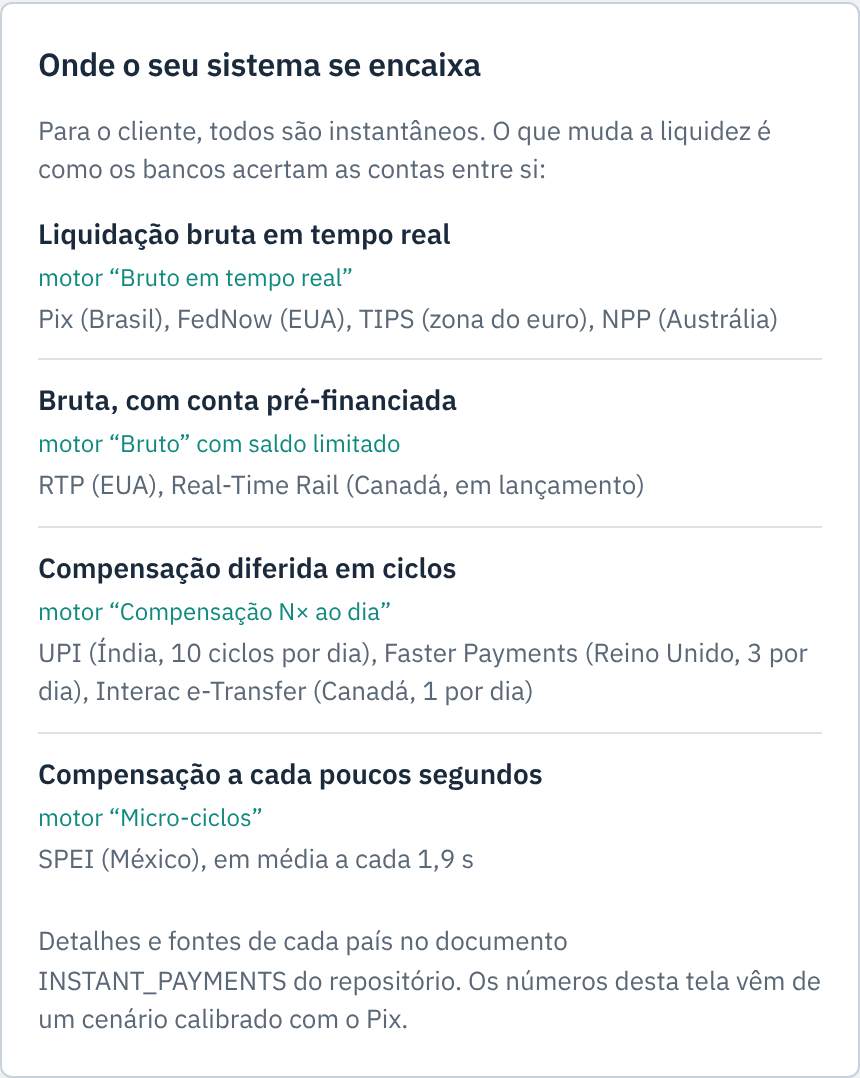
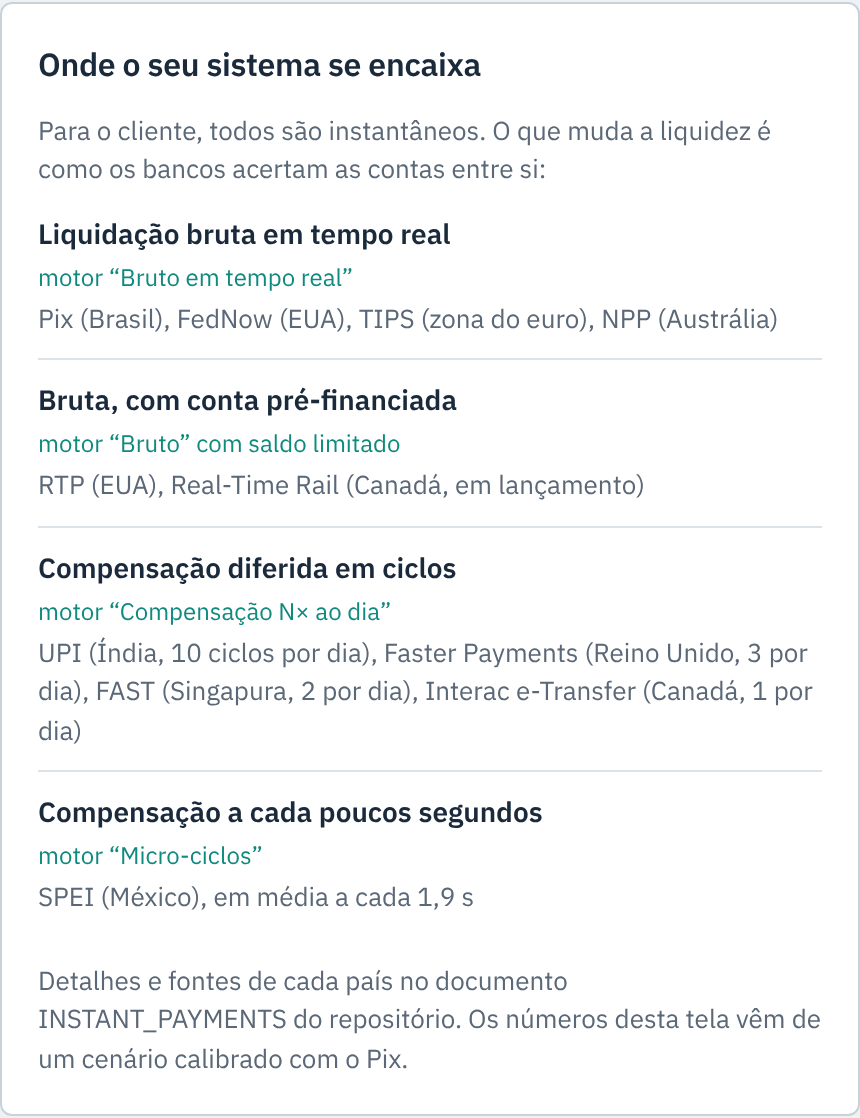
docs: confirm Singapore FAST (deferred net settlement, 2 cycles a day in MEPS+) against MAS sources; no row left to check
Claude-Session: https://claude.ai/code/session_01DUGyeUeHFLL1zbYYdBK5a7

diff --git a/web/src/i18n.ts b/web/src/i18n.ts
@@ -94,7 +94,7 @@ const pt = {
   fitRows: [
     { model: "Liquidação bruta em tempo real", engine: "motor “Bruto em tempo real”", systems: "Pix (Brasil), FedNow (EUA), TIPS (zona do euro), NPP (Austrália)" },
     { model: "Bruta, com conta pré-financiada", engine: "motor “Bruto” com saldo limitado", systems: "RTP (EUA), Real-Time Rail (Canadá, em lançamento)" },
-    { model: "Compensação diferida em ciclos", engine: "motor “Compensação N× ao dia”", systems: "UPI (Índia, 10 ciclos por dia), Faster Payments (Reino Unido, 3 por dia), Interac e-Transfer (Canadá, 1 por dia)" },
+    { model: "Compensação diferida em ciclos", engine: "motor “Compensação N× ao dia”", systems: "UPI (Índia, 10 ciclos por dia), Faster Payments (Reino Unido, 3 por dia), FAST (Singapura, 2 por dia), Interac e-Transfer (Canadá, 1 por dia)" },
     { model: "Compensação a cada poucos segundos", engine: "motor “Micro-ciclos”", systems: "SPEI (México), em média a cada 1,9 s" },
   ],
   fitCaption: "Detalhes e fontes de cada país no documento INSTANT_PAYMENTS do repositório. Os números desta tela vêm de um cenário calibrado com o Pix.",
@@ -167,7 +167,7 @@ const en: Strings = {
   fitRows: [
     { model: "Real-time gross settlement", engine: "“Real-time gross” engine", systems: "Pix (Brazil), FedNow (US), TIPS (euro area), NPP (Australia)" },
     { model: "Gross, against a prefunded account", engine: "“Gross” engine with limited balance", systems: "RTP (US), Real-Time Rail (Canada, launching)" },
-    { model: "Deferred netting in cycles", engine: "“Netting N× a day” engine", systems: "UPI (India, 10 cycles a day), Faster Payments (UK, 3 a day), Interac e-Transfer (Canada, 1 a day)" },
+    { model: "Deferred netting in cycles", engine: "“Netting N× a day” engine", systems: "UPI (India, 10 cycles a day), Faster Payments (UK, 3 a day), FAST (Singapore, 2 a day), Interac e-Transfer (Canada, 1 a day)" },
     { model: "Netting every few seconds", engine: "“Micro-cycles” engine", systems: "SPEI (Mexico), every 1.9 s on average" },
   ],
   fitCaption: "Details and sources for each country in the repository's INSTANT_PAYMENTS document. The numbers on this screen come from a scenario calibrated to Pix.",

diff --git a/docs/INSTANT_PAYMENTS.md b/docs/INSTANT_PAYMENTS.md
@@ -8,8 +8,9 @@
 > payments. This page shows which settlement model each system uses and which LoopSettle engine
 > represents it.
 >
-> Last checked: 5 Nov 2026, by public web search; SPEI and Canada checked against primary sources (Banxico, Interac, Bank of Canada). Rows marked **to check** rely on secondary
-> sources and must be confirmed against the operator's rulebook before being cited.
+> Last checked: 5 Nov 2026, by public web search; SPEI, Canada and FAST checked against primary sources (Banxico, Interac, Bank of Canada, MAS). Rows
+> marked "secondary sources" should still be confirmed against the operator's rulebook before
+> being cited.
 
 ## The key distinction: how banks settle with each other
 
@@ -37,7 +38,7 @@ question: how much more liquidity a move to RTGS would require.
 | **RTP** | United States | The Clearing House | Nov 2017 | prefunded real-time gross settlement against a joint account at the New York Fed | `GrossRealTime` (limited balance) | confirmed |
 | **TIPS** (SCT Inst) | Euro area | Eurosystem (ECB) | Nov 2018 | RTGS in euro central bank money, each payment in under 10 s | `GrossRealTime` | confirmed |
 | **NPP** + Fast Settlement Service | Australia | NPP Australia / Reserve Bank of Australia | Feb 2018 | line-by-line real-time settlement of each payment in exchange settlement accounts, no netting | `GrossRealTime` | confirmed |
-| **FAST** | Singapore | Banking industry / MAS | 2014 | real-time service; how FAST positions settle in MEPS+ is not settled by the sources found | — | **to check** |
+| **FAST** | Singapore | Banking Computer Services (operator) / MAS (settlement) | Mar 2014 | instant to the customer; deferred net settlement: the clearing house nets FAST obligations and settles them in MEPS+ (MAS's RTGS) in two cycles per business day, against collateral deposited with MAS | `DeferredNet { 2 }` | confirmed (MAS, World Bank) |
 | **SPEI** | Mexico | Banco de México | Aug 2004 | settlement by a clearing algorithm that repeatedly selects the sets of payments that can settle with participants' current balances — every 1.9 s on average, inside the system, in central bank money (Banxico) | `AtomicMicroCycle` (analogue) | confirmed (Banxico) |
 | **UPI** | India | NPCI / Reserve Bank of India | 2016 | deferred net settlement: NPCI computes net positions and settles them in the RBI's RTGS, 10 cycles a day for authorised transactions | `DeferredNet { 10 }` | confirmed (secondary sources) |
 | **Faster Payments** | United Kingdom | Pay.UK / Bank of England | May 2008 | deferred net settlement at the Bank of England, three cycles per business day, prefunded | `DeferredNet { 3 }` | confirmed (secondary sources) |
@@ -68,8 +69,9 @@ question: how much more liquidity a move to RTGS would require.
   [Finextra, ECB launches TIPS](https://www.finextra.com/newsarticle/33043/ecb-launches-real-time-payments-system)
 - NPP / FSS: [RBA Bulletin, Sep 2018](https://www.rba.gov.au/publications/bulletin/2018/sep/the-new-payments-platform-and-fast-settlement-service.html) ·
   [RBA, Fast Settlement Service](https://www.rba.gov.au/rits/info/fastsettlementservice.htm)
-- FAST / MEPS+: [MAS, MEPS+](https://www.mas.gov.sg/news/media-releases/2006/successful-implementation-of-meps) ·
-  [Mastercard, Singapore FAST](https://www.mastercard.com/am/en/news-and-trends/Insights/2022/singapore-fast.html)
+- FAST / MEPS+ (primary): [MAS, MEPS+ PFMI disclosure 2024](https://www.mas.gov.sg/-/media/mas/singapore-financial-centre/why-singapore/meps/references/mepsplus-pfmi-disclosure-2024.pdf) ·
+  [World Bank, Singapore FAST case study](https://fastpayments.worldbank.org/sites/default/files/2021-10/World_Bank_FPS_Singapore_FAST_Case_Study.pdf) ·
+  [MAS, MEPS+ service agreement](https://www.mas.gov.sg/-/media/MAS/Singapore-Financial-Centre/Why-Singapore/MEPS/Agreements/MEPSplus-Svc-Agreement_wef-8-Feb-2021_v2.pdf)
 - SPEI: [World Bank](https://openknowledge.worldbank.org/server/api/core/bitstreams/ac864d82-3b34-58b9-ba3a-163164442a20/content) ·
   [Banco de México at CEMLA, 2021](https://clon.cemla.org/actividades/2021-final/2021-09-ii-reunion-responsables-infraestructuras-de-mercados-financieros/4b.%20Moreno_CEMLA%20FPS%20Mexico%20SPEI%20BdeM.pdf)
 - UPI: [NPCI, UPI settlement process](https://www.npci.org.in/PDF/npci/others/UPI-Settlement-Process.pdf) ·

diff --git a/docs/INSTANT_PAYMENTS.pt-BR.md b/docs/INSTANT_PAYMENTS.pt-BR.md
@@ -8,8 +8,8 @@
 > instantâneos. Esta página mostra o modelo de liquidação de cada sistema e qual motor do
 > LoopSettle o representa.
 >
-> Última conferência: 05/11/2026, por busca pública na web; SPEI e Canadá conferidos em fontes primárias (Banxico, Interac, Bank of Canada). Linhas marcadas **a conferir**
-> dependem de fontes secundárias e precisam ser confirmadas no regulamento do operador antes de
+> Última conferência: 05/11/2026, por busca pública na web; SPEI, Canadá e FAST conferidos em fontes primárias (Banxico, Interac, Bank of Canada, MAS). Linhas
+> marcadas "fontes secundárias" ainda devem ser confirmadas no regulamento do operador antes de
 > serem citadas.
 
 ## A diferença que importa: como os bancos acertam as contas entre si
@@ -40,7 +40,7 @@ modelo bruto exigiria.
 | **RTP** | Estados Unidos | The Clearing House | nov/2017 | bruta em tempo real, pré-financiada, contra uma conta conjunta no Fed de Nova York | `GrossRealTime` (saldo limitado) | confirmado |
 | **TIPS** (SCT Inst) | Zona do euro | Eurosistema (BCE) | nov/2018 | bruta em tempo real em dinheiro do banco central em euro, cada pagamento em menos de 10 s | `GrossRealTime` | confirmado |
 | **NPP** + Fast Settlement Service | Austrália | NPP Australia / Reserve Bank of Australia | fev/2018 | liquidação individual em tempo real de cada pagamento nas contas de liquidação, sem compensação | `GrossRealTime` | confirmado |
-| **FAST** | Singapura | setor bancário / MAS | 2014 | serviço em tempo real; as fontes encontradas não esclarecem como as posições do FAST são liquidadas no MEPS+ | — | **a conferir** |
+| **FAST** | Singapura | Banking Computer Services (operador) / MAS (liquidação) | mar/2014 | instantâneo para o cliente; compensação diferida: a câmara compensa as obrigações do FAST e as liquida no MEPS+ (o sistema bruto do MAS) em dois ciclos por dia útil, contra garantias depositadas no MAS | `DeferredNet { 2 }` | confirmado (MAS, Banco Mundial) |
 | **SPEI** | México | Banco de México | ago/2004 | liquidação por um algoritmo de compensação que escolhe, repetidamente, os conjuntos de pagamentos que podem ser liquidados com os saldos do momento — em média a cada 1,9 s, dentro do próprio sistema, em dinheiro do banco central (Banxico) | `AtomicMicroCycle` (análogo) | confirmado (Banxico) |
 | **UPI** | Índia | NPCI / Reserve Bank of India | 2016 | compensação diferida: a NPCI calcula as posições líquidas e as liquida no sistema bruto do RBI, 10 ciclos por dia para transações autorizadas | `DeferredNet { 10 }` | confirmado (fontes secundárias) |
 | **Faster Payments** | Reino Unido | Pay.UK / Bank of England | mai/2008 | compensação diferida no Bank of England, três ciclos por dia útil, pré-financiada | `DeferredNet { 3 }` | confirmado (fontes secundárias) |

diff --git a/README.md b/README.md
@@ -225,7 +225,7 @@ entre si**, e o LoopSettle tem um motor para cada modelo:
 |---|---|---|
 | Bruto em tempo real | Pix (Brasil), FedNow (EUA), TIPS (zona do euro), NPP (Austrália) | `GrossRealTime` |
 | Bruto, conta pré-financiada | RTP (EUA), Real-Time Rail (Canadá, em lançamento) | `GrossRealTime` com saldo limitado |
-| Compensação diferida em ciclos | UPI (Índia, 10/dia), Faster Payments (Reino Unido, 3/dia), Interac e-Transfer (Canadá, 1/dia) | `DeferredNet` |
+| Compensação diferida em ciclos | UPI (Índia, 10/dia), Faster Payments (Reino Unido, 3/dia), FAST (Singapura, 2/dia), Interac e-Transfer (Canadá, 1/dia) | `DeferredNet` |
 | Compensação a cada poucos segundos | SPEI (México, em média a cada 1,9 s) | `AtomicMicroCycle` |
 
 </td>
@@ -628,7 +628,7 @@ has an engine for each model:
 |---|---|---|
 | Real-time gross | Pix (Brazil), FedNow (US), TIPS (euro area), NPP (Australia) | `GrossRealTime` |
 | Gross, prefunded account | RTP (US), Real-Time Rail (Canada, launching) | `GrossRealTime` with limited balance |
-| Deferred netting in cycles | UPI (India, 10/day), Faster Payments (UK, 3/day), Interac e-Transfer (Canada, 1/day) | `DeferredNet` |
+| Deferred netting in cycles | UPI (India, 10/day), Faster Payments (UK, 3/day), FAST (Singapore, 2/day), Interac e-Transfer (Canada, 1/day) | `DeferredNet` |
 | Netting every few seconds | SPEI (Mexico, every 1.9 s on average) | `AtomicMicroCycle` |
 
 </td>

diff --git a/REVIEW.md b/REVIEW.md
@@ -162,8 +162,8 @@ the real laptop (i3, 4 GB).
 69. **International framing (`docs/INSTANT_PAYMENTS.md`).** The README, the UI and the docs now
     present LoopSettle as a study of instant payments with gross settlement, with Pix as the
     calibrated case, and map 11 systems to the engines. SPEI, Interac e-Transfer and Canada's RTR
-    were checked against primary sources (Banxico, Interac, Bank of Canada); only FAST is still
-    "to check". The SPEI row matters for the paper: Banxico describes a clearing algorithm that
+    were checked against primary sources (Banxico, Interac, Bank of Canada); Singapore's FAST was checked
+    against MAS sources too, so no row is left "to check". The SPEI row matters for the paper: Banxico describes a clearing algorithm that
     settles the payable sets every 1.9 s on average, a real-world analogue of atomic micro-cycles
     and a natural comparison; Canada's RTR (prefunded, launching Q4 2026) is a live case for the
     Finnish study's migration question. Pix is a high-renown

diff --git a/REVIEW.pt-BR.md b/REVIEW.pt-BR.md
@@ -166,7 +166,8 @@ geradas por `node scripts/screenshots.cjs`). Falta testar no notebook real (i3, 
     documentação agora apresentam o LoopSettle como estudo de pagamentos instantâneos com
     liquidação bruta, com o Pix como caso calibrado, e relacionam 11 sistemas aos motores. SPEI,
     Interac e-Transfer e o RTR do Canadá foram conferidos em fontes primárias (Banxico, Interac,
-    Bank of Canada); só o FAST continua "a conferir". A linha do SPEI importa para o artigo: o
+    Bank of Canada); o FAST de Singapura também foi
+    conferido em fontes do MAS, e nenhuma linha ficou "a conferir". A linha do SPEI importa para o artigo: o
     Banxico descreve um algoritmo de compensação que liquida os conjuntos possíveis a cada 1,9 s
     em média, um análogo real dos micro-ciclos atômicos e uma comparação natural; o RTR do Canadá
     (pré-financiado, em lançamento no 4º trimestre de 2026) é um caso vivo da pergunta de migração
